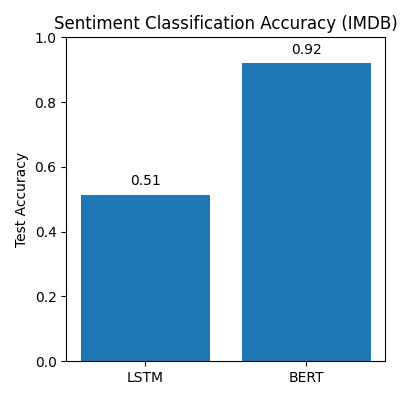
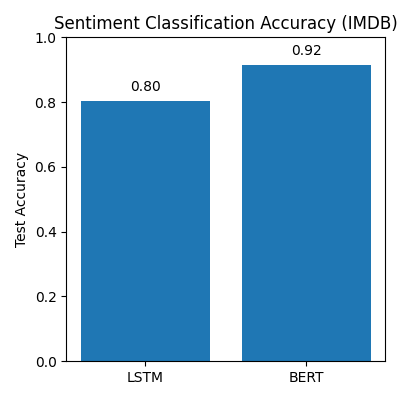
Testing with Embedding Dim at 200 not 100

Changed region(s): [[0.18, 0.18, 0.54, 0.51], [0.6, 0.09, 0.93, 0.18]]

diff --git a/src/config.py b/src/config.py
@@ -22,7 +22,7 @@ CONFIG = {
 
     # LSTM model settings (for later enhancement)
     "lstm": {
-        "embedding_dim": 100,
+        "embedding_dim": 200,
         "hidden_dim": 256,
         "dropout": 0.3,
         "lr": 1e-3
